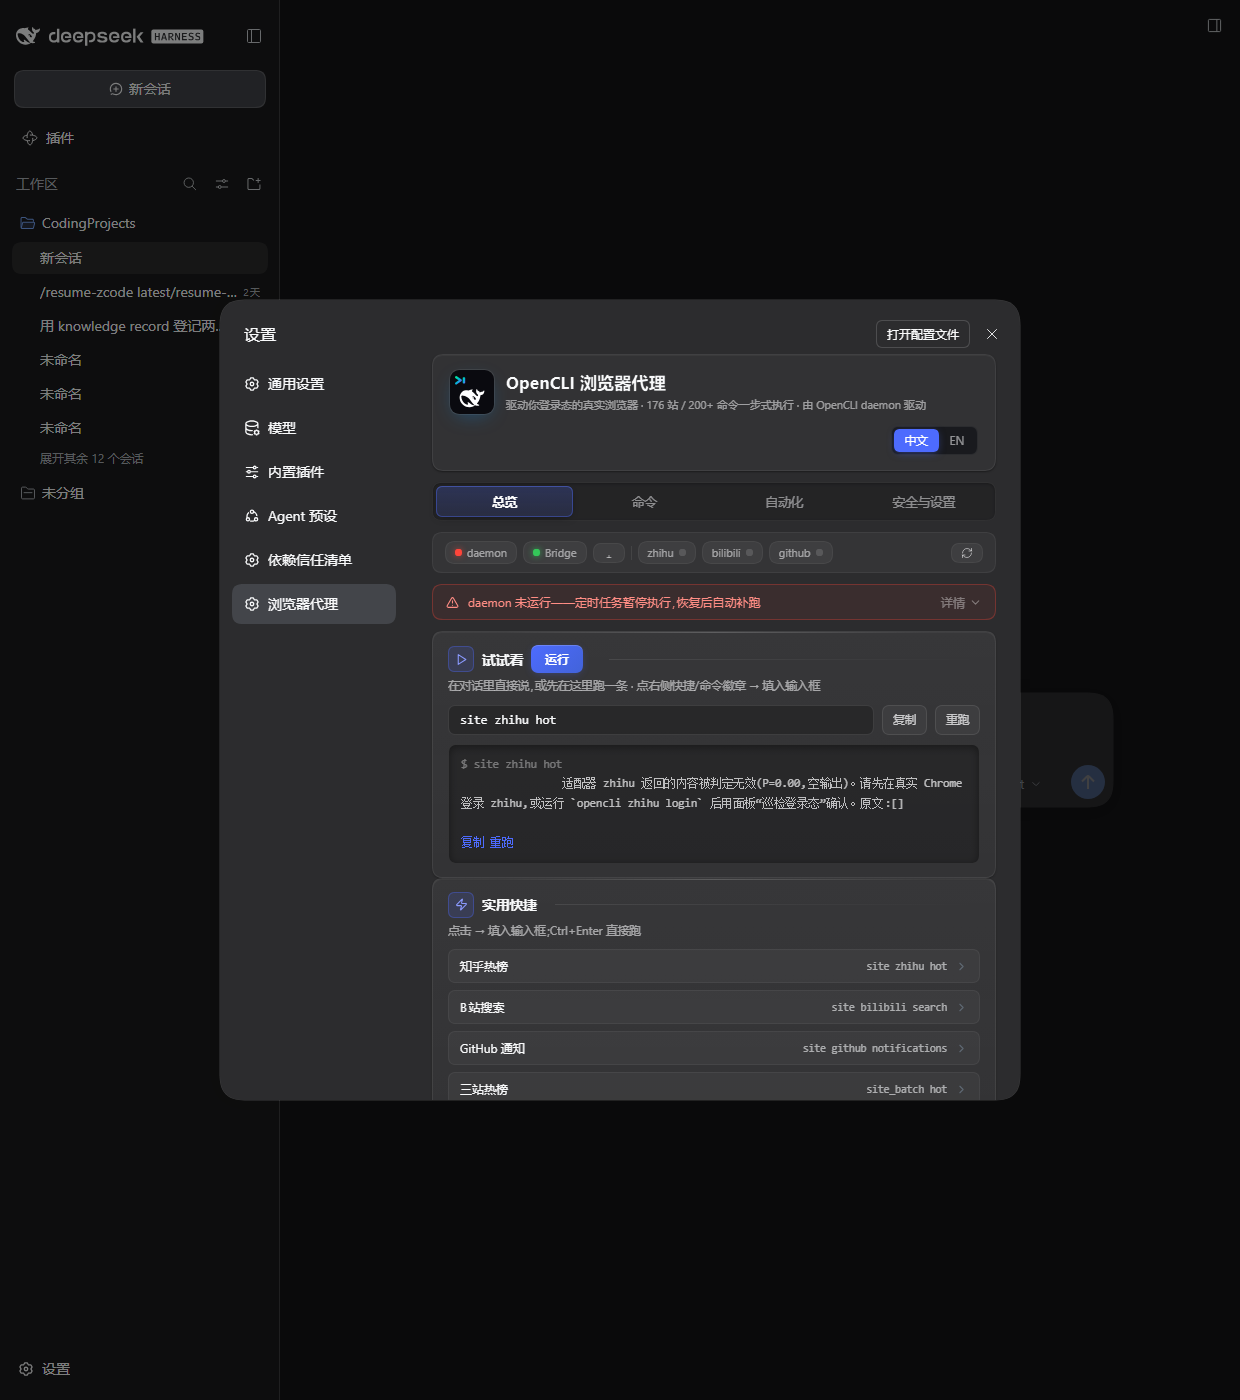
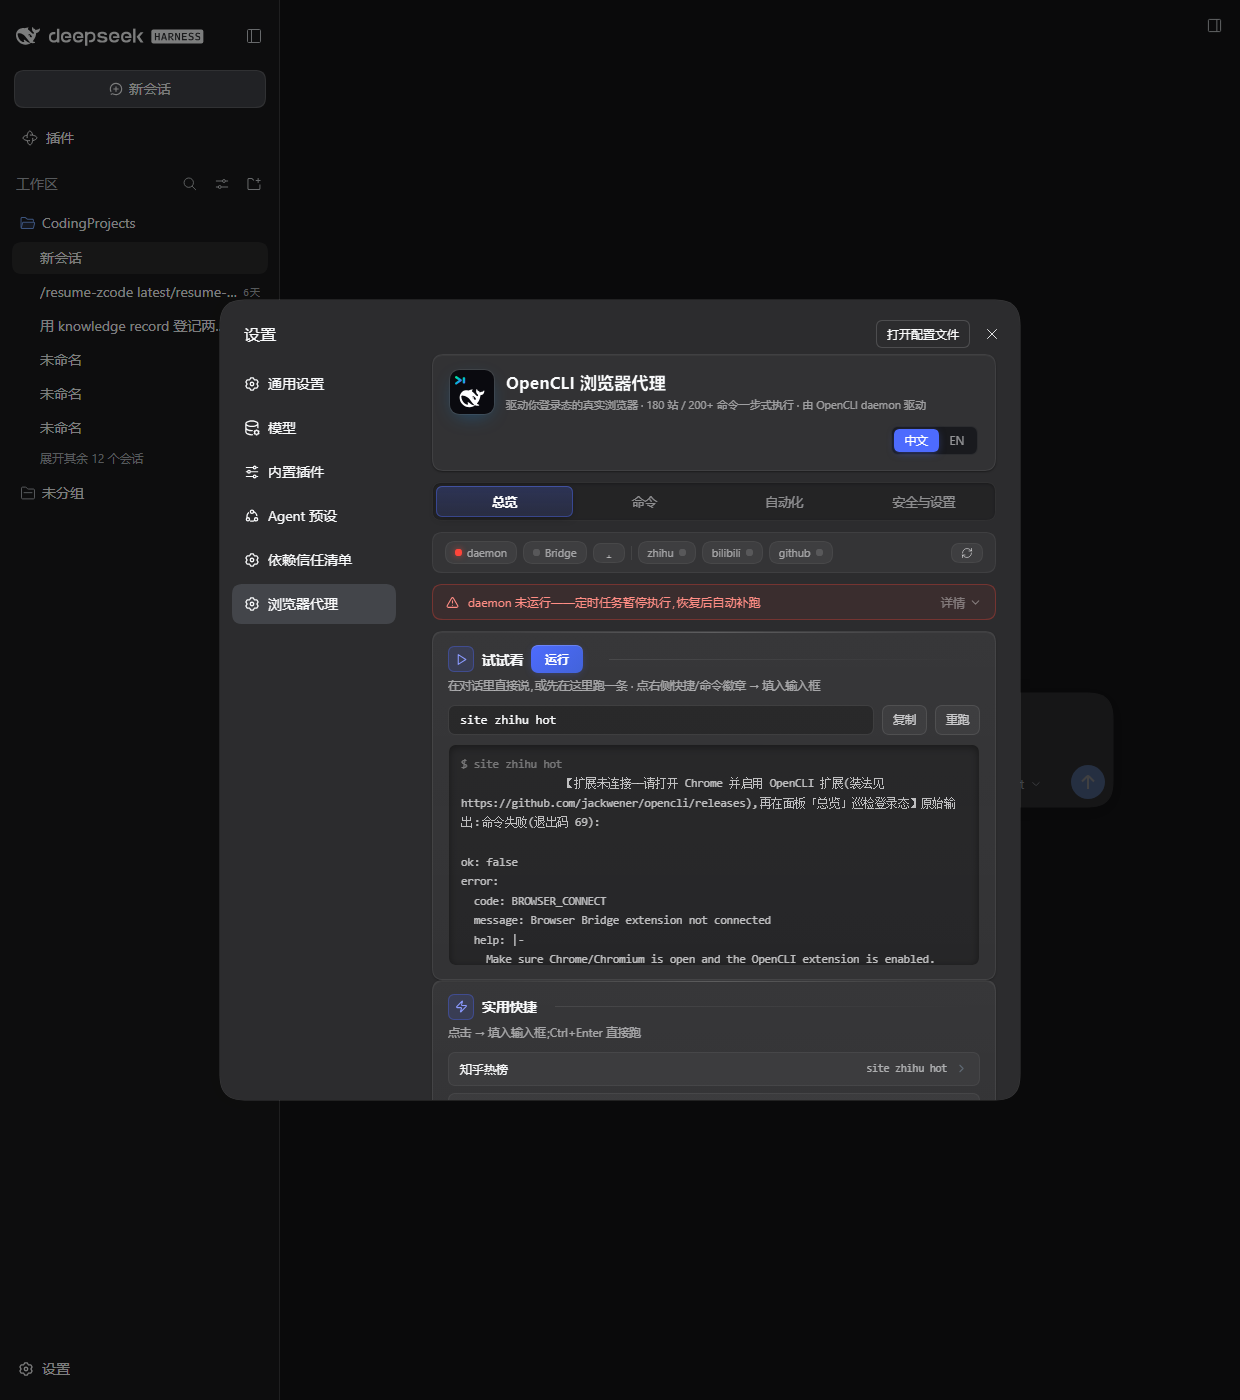
release: v0.4.2——录屏回放/预览卡片/报告导出/健康度/MCP Resources/site_route/快照时间线/SWR/0.2 视觉;可靠性十连修(cron HIGH 前缀剥离 laya 降权 恢复链等,全部独立真机复核);159 测试+21/21 套件

Changed region(s): [[0.3677, 0.5529, 0.7661, 0.7986], [0.6742, 0.7371, 0.7661, 0.7986]]

diff --git a/CHANGELOG.md b/CHANGELOG.md
@@ -1,52 +1,44 @@
+## 0.4.2 — 2026-10-08
+
+> ⚠ **升级必读:插件更新后必须重启 dsh daemon 才生效**(长驻进程不热加载插件构建)。
+
+### 新功能
+- **录屏回放**:browser_* 全族命令自动落盘 trace(~/.dsh/opencli-traces,jsonl+5MB 轮转);trace-list/trace-get RPC;**trace_replay 工具**(agent 复盘"上次为什么失败",跨日聚合+本地时区);面板「运行轨迹」卡(红绿状态点/耗时/展开原文)
+- **对话内任务预览卡片**:site/site_batch/browser_do 输出结构化渲染(命令块+四态状态色 ✓✗⚠+汇总表+原文围栏,0.2 视觉)
+- **报告导出(带出处)**:buildReport 纯渲染层——多站/定时快照合并为 markdown,每节**出处三元组(命令+时间+快照路径)+判定结论**,尾部"数据源与缺口声明"逐条列失败/静默失败/缺席,**零模型介入**;site_batch 自动落盘+report-build RPC+面板「生成报告」按钮
+- **站点健康度**:上游 issue 实测数据(小红书/instagram 受损等)驱动命令页徽章+知识卡健康段,受损站自动提示 browser 兜底
+- **MCP Resources 知识暴露**:dsh 0.2 ctx.mcpResources seam——opencli://sites/{site}/knowledge 资源;0.1.x 走 knowledge-get RPC 双路径
+- **W3 分层命令路由 site_route**:SystemOne 两步 choice(先站后命令,≤24 候选)亚秒出命令行+Top3 概率
+- **采集快照+时间线**:定时成功执行存结构化快照(50 份轮转);schedule-history 快照索引;面板时间线趋势柱状图+运行史
+- **watch 关键词监控增强**:命中事件总览可见,大小写不敏感
+- **SWR 面板缓存 v2**:重开秒显上次数据(损坏缓存全防护:try/catch+结构校验+版本键+12h 过期)
+- **知识外移**:pitfalls/健康度独立为 knowledge/*.json 数据文件(知识更新不动代码)
+
+### 样式(0.2 视觉对齐)
+- tab 激活态品牌蓝渐变+内描边+顶部高光;卡片渐变表面+顶光+悬浮投影;输入框品牌焦点环;细滚动条;次要文字对比度提升;四档模式对勾语义修复;watch/健康徽章/轨迹卡/时间线全套新组件样式
+
+### 性能
+- laya 权重激活期后台预热(冷加载 60s 不再砸首次调用);卡片去 transform 降绘制;目录缓存+快路径
+
+### 可靠性修复(全部经独立子代理真机复核)
+- **[HIGH] cron 调度器从不与当前时间比较**——数字合法即每分钟触发,对站点高频轰炸(历史 state 累积 5055 个 marker 实锤);修复+字段越界拒收+逗号列表语义
+- **任务 site 前缀剥离**:按面板占位符创建的任务此前 100% 失败(unknown command site)
+- **laya noul 放弃阈值判失败**(实测错误文本同样 0.9+,拦截权收归确定性规则层;真数据 0.66-0.77 安全通过)
+- **try-run exit≠0 恢复链**:扩展未连/登录缺失/风控墙归类+统一中文指引,不再裸 YAML 46 秒
+- **opencli_catalog 过滤参数全失效修复**(query/site 真正生效)
+- schedule-add cron 五段校验+越界拒绝;调度 marker 独立 Set 不落盘+loadState 自愈 5055 键
+- 7 个 RPC 空 request 守卫;knowledge-export 空 sites 报错;快照时间戳 ISO 还原;EN 站点数动态化
+- resolveBin 版本切换免疫(vfox/nvm 多版本目录扫描,活跃版本切走自动找回 opencli)
+- 逗号运算符吞行/TimelinePanel 作用域/schedule-history 形参名 三连根因修复(时间线不渲染缺口)
+
+### 工程与文档
+- 159 单测(0.4.1 时 74);审查套件 21 项;竞品监控脚本 competitor-watch.cjs;PM-RESEARCH 竞品全景(官方注册表 4412 条实测);SKILL.md 全工具速查;部署断层教训入档
+
 # 更新日志
 
 格式参考 Keep a Changelog;版本与 GitHub Releases 一一对应。
 
-## Unreleased
-
-> ⚠ **升级必读:插件更新后必须重启 dsh daemon 才生效**(长驻进程不热加载插件构建;曾因部署断层导致"修了没变化")。
-
-### 报告导出(主线 B 渲染层,对标 dsh-fund-research 溯源三件套)
-- `buildReport` 纯函数:多源采集 → 单文件 markdown,每节带出处三元组(site 命令+执行时间+快照路径)+判定结论;尾部「数据源与缺口声明」逐条列失败/静默失败/缺席,绝不编数字;围栏安全(原文 ``` 降级);零模型介入
-- site_batch 执行后自动落盘 `~/.dsh/opencli-reports/batch-*.md` 并在工具输出附路径
-- 新增 `report-build` RPC:定时任务近 5 份快照 → 报告;面板时间线面板加「生成报告」按钮(路径复制到剪贴板)
-- 156 测试绿(+6)
-
-### 收尾(第三批):失败兜底提示 / watch 命中可见性 / 面板走查
-- **site / site_batch / browser_do 预览卡失败兜底**:✗(exit N/被拦截/子命令被拒)且原文无登录指引时,卡片末尾追加"👉 状态异常:建议人工接管或改用 browser_* 原语"——引导模型别在坏状态上盲目重试;空结果/导航被拒文案已自带登录指引,不重复加(互斥规则 tests/cards.test.ts 直测)。site_batch 同族覆盖(评审修复):整卡被拒或存在 ✗ 失败站时同样附提示,互斥按站判定——仅全部失败站原文都自带登录指引才省略,任一站无指引(如纯超时)即附一次
-- **watch 命中可见性**:总览 tab 健康区下新增最近一条 watch 命中 🔔 徽章行(数据源 ingest-events,时间本地化,点击跳自动化 tab;无命中不渲染,拉取失败静默);newest-first 排序/返回形状/30 条上限以测试钉住(tests/advanced.test.ts,评审修复:排序契约此前无测试,翻转将致面板永远显示最旧命中且无报警)
-- SKILL.md 工具速查表补 `trace_replay` 行(复盘"上次为什么失败"先调它)
-- 面板走查小修:CDP 端点"复制端点"按钮 i18n key 缺失(bridgeCopyEp 渲染空文案)补齐;资产库"浏览全部"按钮 className 丢失(btn→o4-btn);cron 输入框改等宽(o4-in mono);状态条 Bridge 灯由恒绿改按 daemon extension 实际连接态;版本卡 v0.4.0→v0.4.1(与 package.json 对齐);去重复 `.o4-in::placeholder` 规则
-
-### 对话内任务预览卡(对标 BrowserSkill 核心卖点,纯插件内实现)
-- **三个工具 output.render 升级为样式卡**(src/cards.ts 纯函数,tests/cards.test.ts 直测形状):
-  - `site` 命令行样式——▣ 站点徽章 + 命令 + exit 状态色(✓ 绿 #34C759 / ✗ 红 #FF453A / ⚠ 琥珀 #FF9F0A,与面板 o4-dot 三色系统同源);判定标注从 execute 文本解析(疑似静默失败/内容可疑 → ⚠,实测有效 → P 值入标签),失败前缀行去重
-  - site execute 接入 verifyResult/verifyBadge(评审修复:此前 ⚠ 分支生产不可达)——exit 0 内容判定后以 ⚠/实测有效 前缀标注进 {text},只标注不拦截(模型仍见原文,与 site_batch 先例一致;SystemOne 不可用不标注,行为同升级前);authProfile 限域拒绝两文案归 ✗ 被拦截(同非法 adapter/已禁用家族)
-  - site_batch 解析按请求站点集过滤分节头(评审修复:适配器输出里的 `== 站 ✓… ==` lookalike 不再产生幻影汇总行,卡头与 execute 汇总头不打架;lookalike 原文仍保留)
-  - site 判定不背 laya 冷加载(评审修复):verifyResult 新增 warmOnly——预热窗口内(laya 权重约 60s 冷加载/1.6GB)site 跳过 noul 兜底,规则层照跑,标注缺席=原行为;SystemOne 加载改单飞(prewarm/ask 共享一次 Laya.load,不再双开 ONNX 会话)+ warm 就绪 getter。timeoutMs 不声明:工具未向 runOpencli 转发 exec.signal,按 dsh-tools 约定声明即违反协作契约;热路径冷启动已由 warm 门禁消除
-  - 分节头鉴别收紧为"每请求站点至多一分节"(评审修复:重复点名已请求站点的 lookalike 同样视为正文,不再产生重复汇总行)
-  - `site_batch` 汇总头(成功数按 exit-0 口径与 execute 汇总一致)+ 每站一行表(站名+状态+P 值)+ 前置注记(目录预检/preflight)+ 原文分节围栏
-  - `browser_do` 步骤式——命令/结果分段,非默认会话入徽章头
-- **能力边界实测**(dsh-tools 0.2.0-rc.2):render 产物 ContentBlock[] 里 text 是唯一可由插件构造的块——image/file 需 attachment 服务拥有的 ref(纯函数拿不到,且官方注释明说 production adapters declare text-only output),故为"带样式的 markdown 文本卡":等宽命令块(```console 围栏,与 0.2 TerminalResultView 降级约定同款)+ 折叠原文降级为"摘要在上、原文围栏在下"(宿主 MarkdownText 禁 raw HTML,GFM 无原生折叠),围栏遇原文反引号串自动加长;原文逐字保留信息不丢
-- execute 文本契约零改动(render 只做只读重排);防御全包(非法输入退空卡绝不抛)
-
-### 录屏回放:browser 命令运行轨迹(BrowserSkill #79 同款需求)
-- **六入口统一单点落盘**:browser_* 全族 + replay / script-run-builtin / crawl / userscript-run / recipe-run 五个 RPC 透传都经 runBrowserTraced——任何入口执行的 browser 命令都进「运行轨迹」,复盘链路不断(评审:面板回放按钮曾绕过单点)
-- 每条命令 JSONL 追加到 `~/.dsh/opencli-traces/trace-<yyyymmdd>.jsonl`({at, cmd, exitCode, ms, outHead≤200 字,失败时 stderr 优先});单文件超 5MB 轮转 .1;写失败静默绝不影响命令本身
-- 新增 agent 工具 `trace_replay`:最近 30 步 markdown 时间线(时间/命令/exit/耗时,失败步附输出摘录);表格单元格净化(换行折 `\n`、竖线转义,userscript 多行 eval 不再拆坏表格);时间列本地化(UTC ISO 直切与本地时钟错位 8h)
-- 新增 `trace-list`(倒序+limit,跨当日/昨日档聚合)/`trace-get`(yyyymmdd 全量,date 严格 8 位数字防路径穿越)RPC;脏行形状校验——parse 成功但非 TraceLine 的行跳过,面板无 ErrorBoundary 不崩白
-- 面板自动化 tab 新增「运行轨迹」卡(时间/命令/exit 色点/耗时,点行展开输出摘录);测试隔离 DSH_OPENCLI_TRACE_DIR 指临时目录,绝不写真实用户数据(tests/trace.test.ts)
-
-### 本周冲刺(10-03):健康度/MCP Resources/W3 路由/采集快照
-- **站点健康度**:`knowledge/health.json`(上游 issue 实测:小红书/instagram 已知受损、zhihu/bilibili 注意)——命令页站点行徽章+知识卡健康度段,受损站给 browser_* 兜底提示
-- **MCP Resources 知识暴露**:dsh 0.2 `ctx.mcpResources` seam 实测存在——`opencli://sites/{site}/knowledge` 资源(list/templates/read);0.1.x 宿主走 knowledge-get RPC 回退;数据层纯函数,换 seam 只动接线
-- **W3 分层命令路由**:`site_route` 工具——so_pick 两步 choice(先站后命令,≤24 候选分层范式)亚秒出命令行+Top3;锁定站点跳过站层;SystemOne 不可用降级回目录
-- **采集结构化快照**:定时成功执行存 `~/.dsh/opencli-snapshots/<id>/<ts>.json`(50 份轮转);`schedule-history` 返回快照索引(时间线/diff/趋势数据源)
-- **知识数据外移**:pitfalls → `knowledge/pitfalls.json`(知识更新不动代码)
-- resolveBin 版本切换免疫(vfox/nvm 多版本目录扫描);95 测试绿;详见 v0.4.1 Release
-
 ## 0.4.1 — 2026-10-03
-
 ### dsh 0.2.0 适配(双版本兼容:0.1.5 与 0.2.0 同时 20/20)
 - **新增 ctx.subprocess 原生执行路径**:0.2.0 把命令执行迁到 subprocess seam(官方 bash 工具同款),旧 ctx.shell.execute 需要沙箱 policy 管线且插件直调不可靠;经 reflect 旁路可选读取(刻意不放 static inject——cordis 对声明服务做加载期解析,0.1.x 宿主没有 subprocess 服务会导致整个插件加载失败)
 - 0.1.x 回落路径升级为多形态自探测:resolve包裹/直传/argv数组,锁定首个真实产生输出的形态(异常文本不再被误当有效输出);spec 携带 danger-full-access 沙箱策略(可信进程内消费者,与 0.1.x 无沙箱行为一致)
